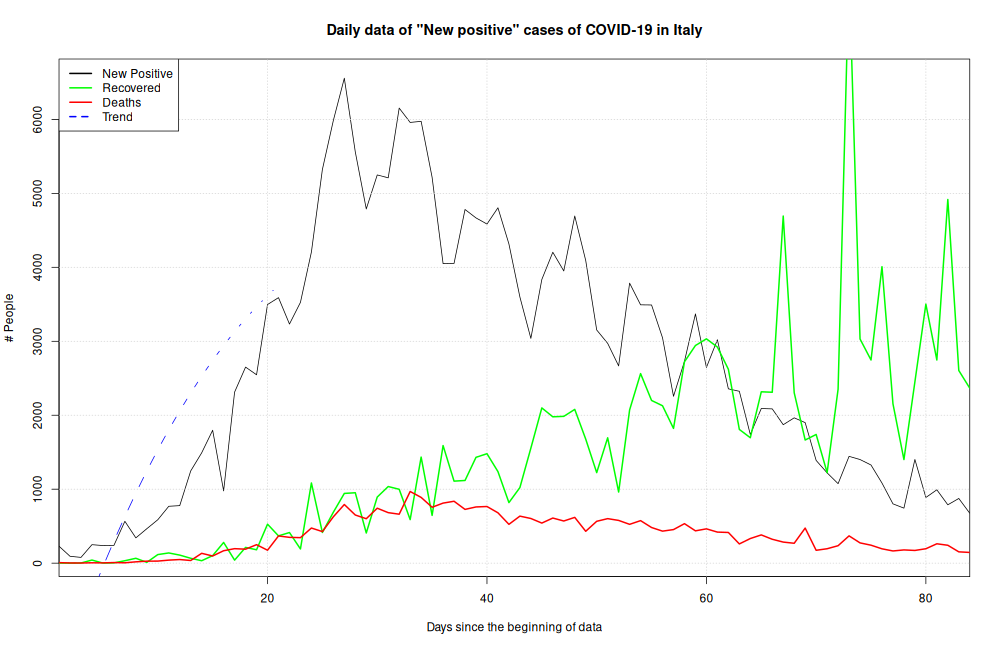
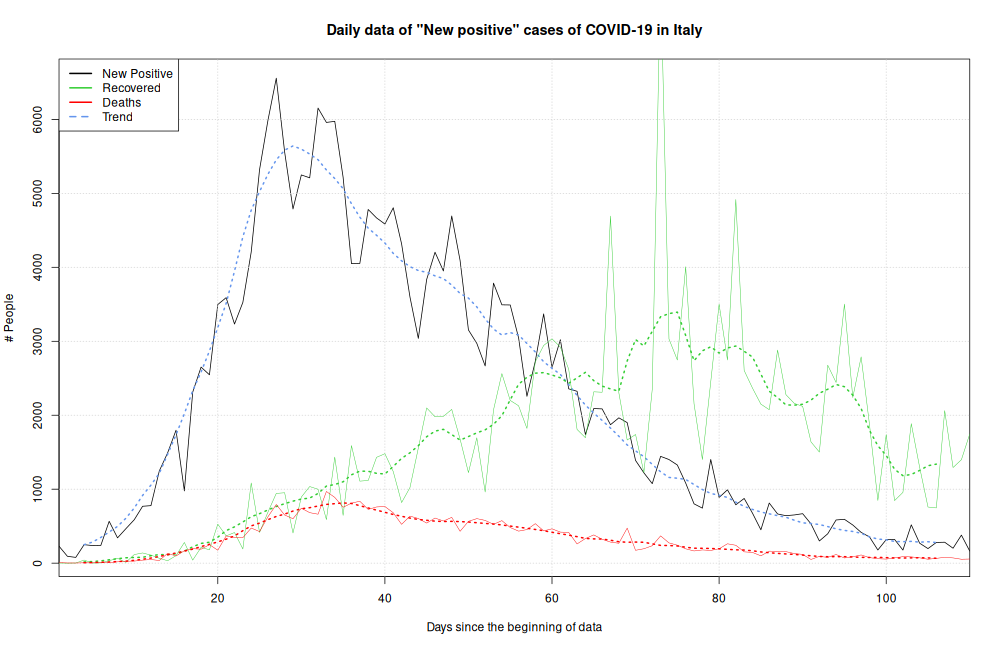
improved plot appearence

diff --git a/README.md b/README.md
@@ -8,4 +8,4 @@ I don't have anything against the data of the official repository and how they'r
 - R
 
 ![example of result](https://github.com/BerenLuth/COVID-19-IT-new-positive/blob/master/example.png)
-_This is an example of the plot made in 17/05/2020_
+_This is an example of the plot made in 13/06/2020_
